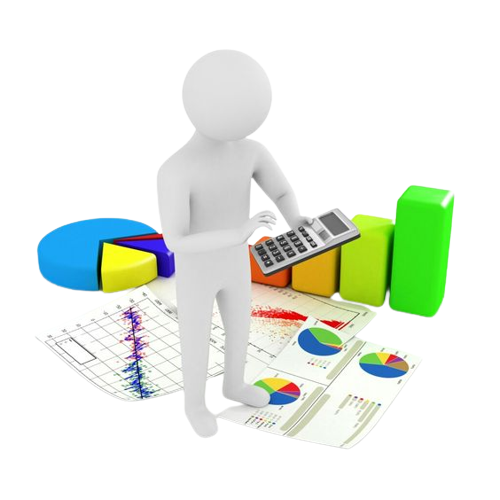
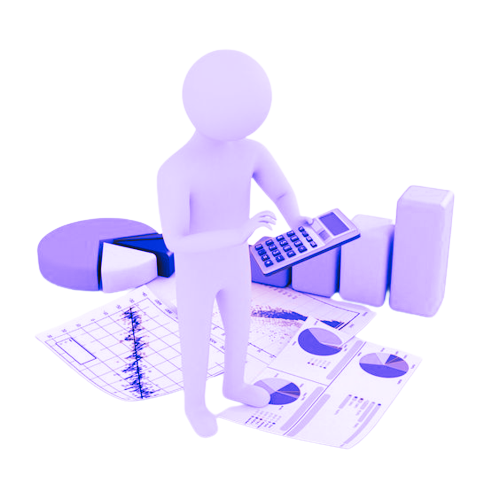
redesign neomorphism plus purple secondary color

Changed region(s): [[0.06, 0.09, 0.93, 0.9]]

diff --git a/src/components/Senai/index.tsx b/src/components/Senai/index.tsx
@@ -1,10 +1,11 @@
+import { NavLink } from 'react-router-dom'
 import './Senai.css'
 // import Link from 'react'
 export default function Senai() {
     return (
         <>
             <div className="section works">
-                <img src="./bnc-lupa.png" className="sectionImg" />
+                <img src="./bnc-like.png" className="sectionImg" />
                 <div className="school">
                     <Math />
                     <Languages />
@@ -18,14 +19,14 @@ export default function Senai() {
 export function Math() {
     return (
         <>
-            <div className="card">
-                <a href="/school/math">
-                <img src="./bnc-math.png" className="cardImage" />
-                <p>
-                    Matemática e suas Tecnologias
-                </p>
-                </a>
-            </div>
+            <NavLink to="/school/math">
+                <div className="card form">
+                    <img src="./bnc-math.png" className="cardImage" />
+                    <p>
+                        Matemática e suas Tecnologias
+                    </p>
+                </div>
+            </NavLink>
         </>
     )
 }
@@ -33,12 +34,14 @@ export function Math() {
 export function Languages() {
     return (
         <>
-            <div className="card">
-                <img src="./bnc-book.png" className="cardImage" />
-                <p>
-                Linguagens e suas Tecnologias
-                </p>
-            </div>
+            <NavLink to="/school/languages">
+                <div className="card form">
+                    <img src="./bnc-book.png" className="cardImage" />
+                    <p>
+                        Linguagens e suas Tecnologias
+                    </p>
+                </div>
+            </NavLink>
         </>
     )
 }
@@ -47,11 +50,11 @@ export function Languages() {
 export function History() {
     return (
         <>
-            <div className="card">
+            <div className="card form">
                 <img src="./bnc-thinking.png" className="cardImage" />
                 <p>
 
-                Ciências Humanas e suas Tecnologias
+                    Ciências Humanas e suas Tecnologias
                 </p>
             </div>
         </>
@@ -62,11 +65,11 @@ export function History() {
 export function Nature() {
     return (
         <>
-            <div className="card">
+            <div className="card form">
                 <img src="./bnc-science.png" className="cardImage" />
                 <p>
                     Ciências da Natureza e suas Tecnologias
-                    </p>
+                </p>
             </div>
         </>
     )

diff --git a/src/index.css b/src/index.css
@@ -1,24 +1,55 @@
-*{
+@import url("https://fonts.googleapis.com/css2?family=Inter&family=Poppins:wght@300;400;600;700&display=swap");
+
+:root {
+    --primary-light: #F3F3F3;
+    --primary-dark: #353535;
+    --secondary-dark: #4e4e4ebe;
+    --primary-color: #0635E0;
+    --secondary-color: #B995FE;
+}
+
+.elementH:hover {
+    color: var(--secondary-color);
+    transition: 0.5s;
+}
+
+.form {
+    border-radius: 23px;
+    background: #ffffff;
+    box-shadow: 19px 19px 49px #ebebeb,
+        -19px -19px 49px #ffffff;
+}
+.form:active{
+    border-radius: 23px;
+background: linear-gradient(145deg, #e6e6e6, #ffffff);
+box-shadow:  19px 19px 49px #ebebeb,
+             -19px -19px 49px #ffffff;
+}
+
+* {
     margin: 0;
     padding: 0;
 }
-p{
+
+p {
     font-family: 'Poppins';
-    color: rgba(0, 0, 0, 0.75);
 }
-a{
+
+a {
     text-decoration: none;
     color: black;
 }
-a:visited{
+
+a:visited {
     color: #ffffff;
 
 }
-a:hover{
-    color: #3385FF;
+
+a:hover {
+    color: var(--secondary-color);
 }
-  
-.tag{
+
+.tag {
     display: flex;
     align-items: center;
     justify-content: center;
@@ -31,39 +62,44 @@ a:hover{
     background-color: #FFFF;
     /* color: #3385FF; */
 }
-.title{
+
+.title {
     font-weight: bold;
     font-family: 'Poppins';
     font-size: 35px;
-    color: #ffffff;
-    padding-left:15rem;
+    color: #111;
+    padding-left: 15rem;
 }
 
-.section{
+.section {
     background-color: rgb(255, 255, 255);
     margin-top: 5rem;
     padding: 8rem 15rem;
     display: flex;
     justify-content: center;
 }
-.mainText{
+
+.mainText {
     font-weight: 500;
     text-align: justify;
     font-size: 22px;
     letter-spacing: 0.7px;
 }
-.sectionImg{
+
+.sectionImg {
     max-width: 330px;
     padding: 0rem 0rem 0rem 0rem;
     margin-right: -50.8rem;
     position: absolute;
     margin-top: -24.8rem;
 }
-.skills{
+
+.skills {
     flex-direction: column;
     justify-content: start;
 }
-.skills p{
+
+.skills p {
     margin: 1rem 20rem;
     padding: 1rem 2rem;
     border-radius: 1rem;
@@ -73,10 +109,11 @@ a:hover{
     width: 50%;
     height: 2rem;
 }
-.skills img{
+
+.skills img {
     margin-top: -14.5rem;
 }
-span{
+
+span {
     font-weight: bold;
 }
-

diff --git a/src/screens/About/index.tsx b/src/screens/About/index.tsx
@@ -13,19 +13,19 @@ export function About() {
                 {/* <div className="tag">
                     <p>About</p>
                 </div> */}
-                <p className='title'>{"<AboutMe />"}</p>
+                <p className='title elementH'>{"<AboutMe />"}</p>
             </div>
             <AboutMe />
             <div className="container containerSkills">
-            <p className='title'>{"<MySkills />"}</p>
+            <p className='title elementH'>{"<MySkills />"}</p>
             </div>
             <MySkills />
             <div className="container containerRoutine">
-            <p className='title'>{"<MyRoutine />"}</p>
+            <p className='title elementH'>{"<MyRoutine />"}</p>
             </div>
             <MyRoutine />
             <div className="container containerRoutine">
-            <p className='title'>{"<SchoolWorks />"}</p>
+            <p className='title elementH'>{"<SchoolWorks />"}</p>
             </div>
             <Senai />
         </>

diff --git a/src/components/Senai/Senai.css b/src/components/Senai/Senai.css
@@ -1,6 +1,5 @@
-.card{
+.card {
     background-color: #f0f0f0ea;
-    color: #FFF;
     display: flex;
     flex-direction: column;
     align-items: center;
@@ -8,32 +7,36 @@
     width: 22rem;
     height: 17rem;
     padding: 2rem 2.5rem;
-    font-family: 'Poppins';
     font-weight: 600;
     transition: 0.5s;
     cursor: pointer;
+    color: #111;
 }
-.card:hover{
-    background-color: #7DB1FF;
-    padding: 2.5rem 3rem;
 
+.card:hover {
+    color: var(--primary-color);
 }
-.card p{
+
+.card p {
     text-align: center;
-    font-size: 18px;
-    padding: 0rem 0rem 1rem 0rem;
+    font-family: 'proclamate_light';
+    font-size: 28px;
+    padding: 0rem 1rem 1rem 1rem;
 }
-.cardImage{
+
+.cardImage {
     max-width: 150px;
     max-height: 150px;
     padding: 1rem;
 }
-.school{
+
+.school {
     display: grid;
     grid-template-columns: repeat(2, 1fr);
     gap: 2.5rem;
 }
-.works{
+
+.works {
     display: flex;
     padding: 2rem 2rem;
     justify-content: center;

diff --git a/src/App.css b/src/App.css
@@ -1,7 +1,5 @@
-@import url("https://fonts.googleapis.com/css2?family=Inter&family=Poppins:wght@300;400;600;700&display=swap");
-
 body {
-  background-color: #1b1b1b;
+  background-color: var(--primary-light)
 }
 
 .containerApp {
@@ -21,22 +19,22 @@ body {
 }
 
 .img3d {
-  max-width: 70%;
-  width: 30rem;
+  max-width: 100%;
+  width: 40rem;
   padding-top: 17vh;
   cursor: pointer;
 }
 
 #title {
-  font-family: "blacklettersh", sans-serif;
-  font-size: 10vw;
-  color: #ffffff;
+  font-family: "proclamate_heavy", sans-serif;
+  font-size: 8vw;
+  color: var(--primary-dark);
   text-align: "center";
   margin-top: 7rem;
 }
 
 #subtitle {
-  color: #ffffffbe;
+  color: var(--secondary-dark);
   font-family: "Poppins";
   font-size: 1.8vw;
   font-weight: 600;

diff --git a/src/components/MyRoutine/MyRoutine.css b/src/components/MyRoutine/MyRoutine.css
@@ -1,22 +1,21 @@
 .routine{
-    padding: 7rem 15rem;
+    padding: 7rem 19rem;
 }
 .routine img{
-    max-width: 220px;
-    margin-top: -21.5rem;
+    margin-top: -25.5rem;
 }
 .table{
     font-family: 'Poppins';
     border-radius: 1rem;
     border-collapse:collapse;
-    background-color: rgba(34, 34, 34, 0.75);
+    background-color: #FFFF;
     width: 100%;
-    color: #FFF;
     border-spacing: 1rem; 
     text-align: center;
 }
 th{
     padding: 1rem;
+    color: var(--primary-color);
     font-size: 1.2rem;
 }
 tr:nth-child(even) {

diff --git a/src/components/MyRoutine/index.tsx b/src/components/MyRoutine/index.tsx
@@ -5,8 +5,8 @@ export default function MyRoutine() {
     return (
         <>
             <div className="section routine">
-                <img src="./boneco-task.png" className="sectionImg"/>
-                <table className="table">
+                <img src="./bnc-terno.png" className="sectionImg"/>
+                <table className="table form">
                     <tr>
                         <th>Horário</th>
                         <th>Segunda</th>
